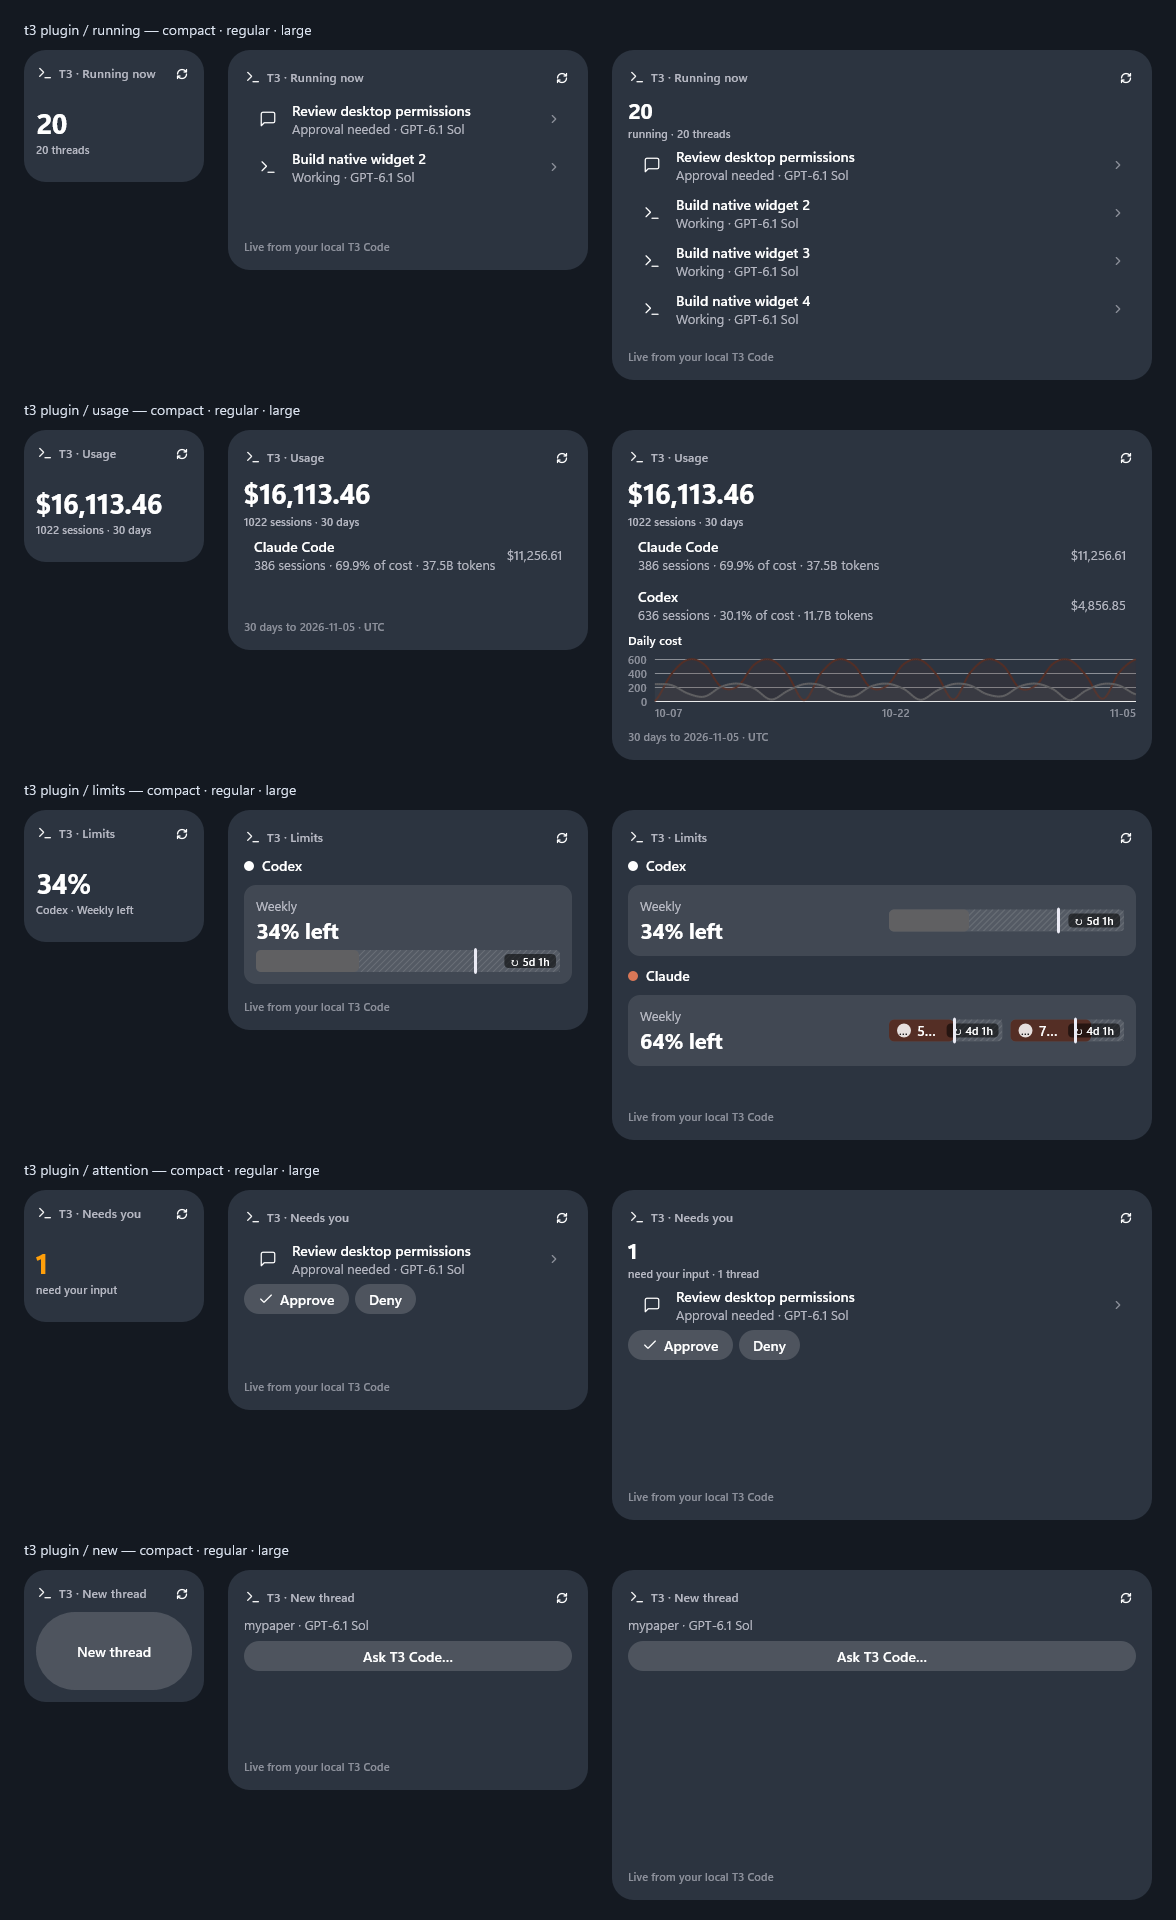
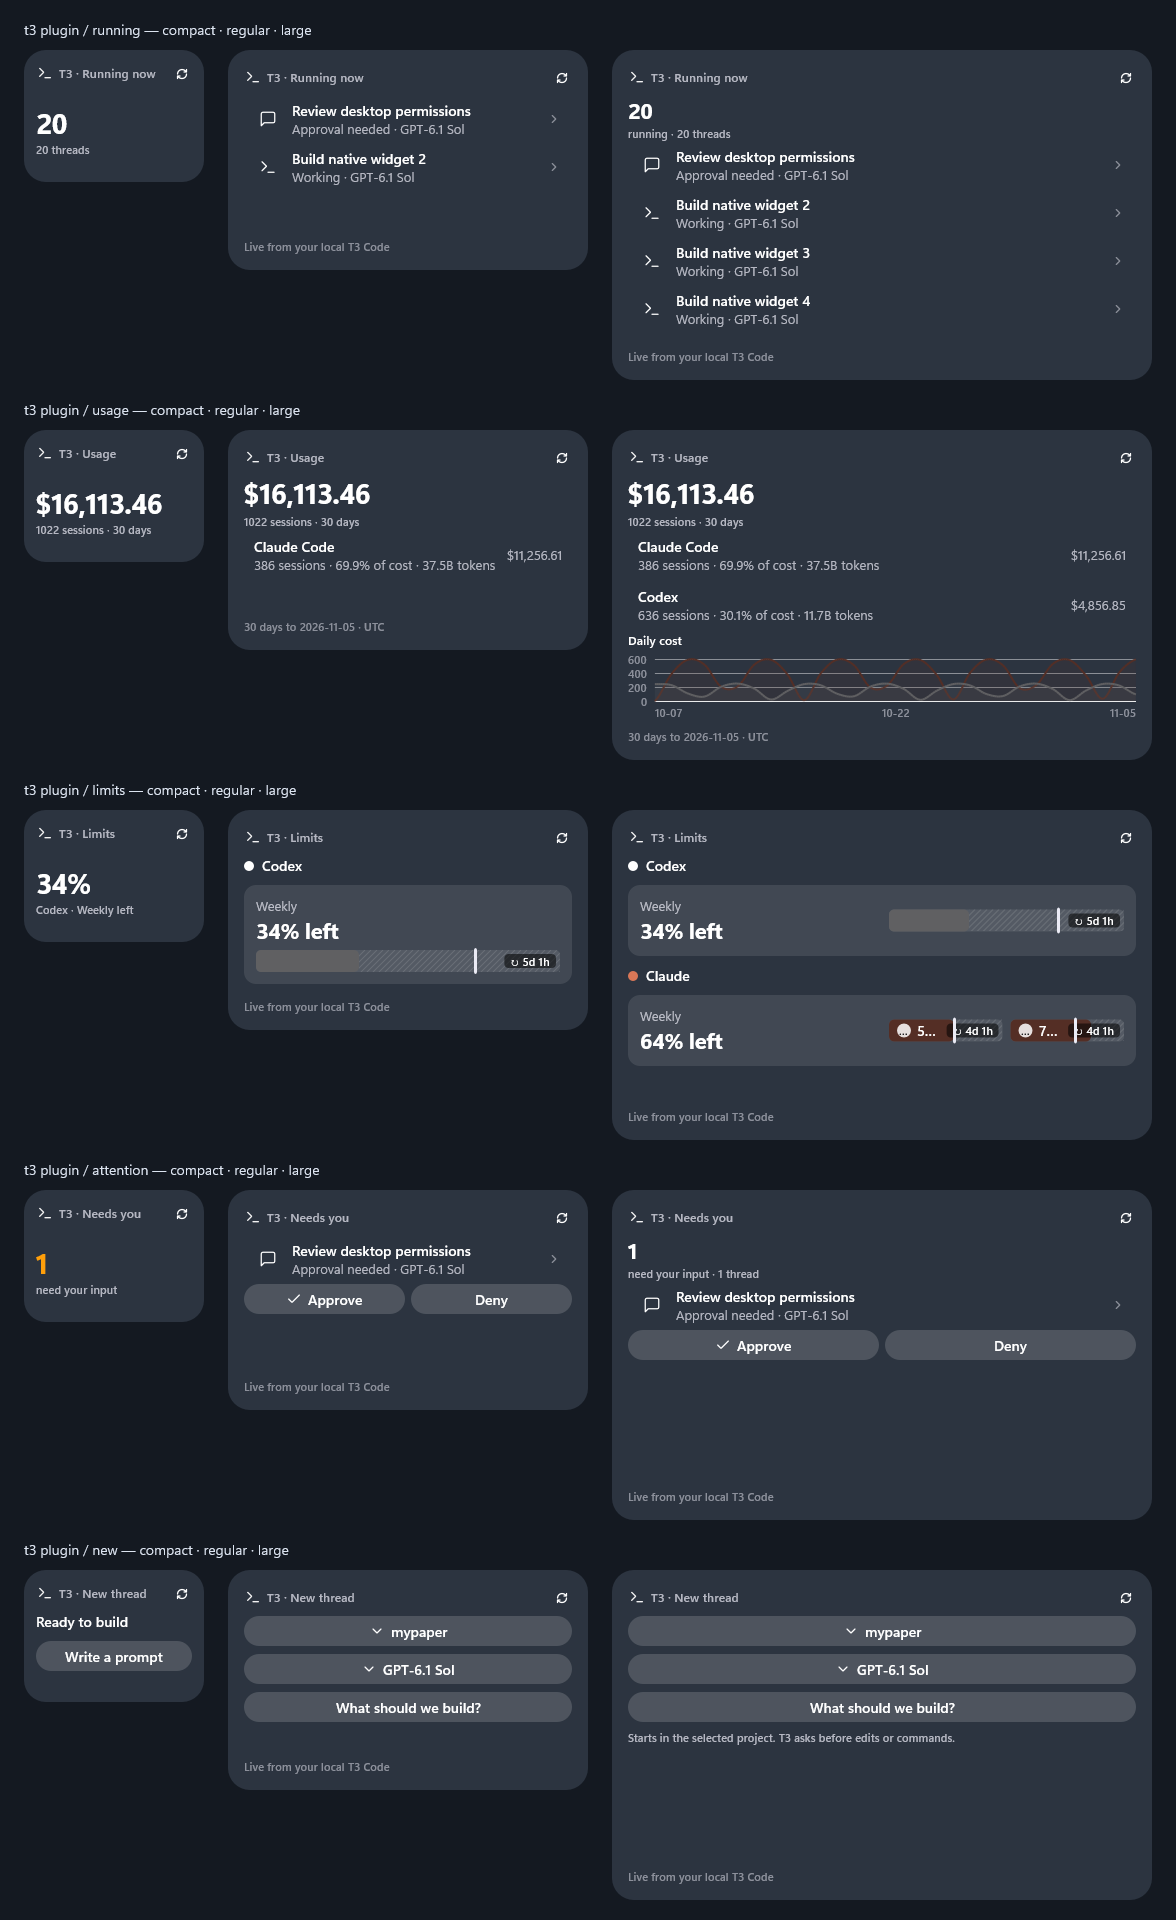
feat(t3): the top-bar t3 module is the T3 plugin's status bar (bars.json "t3" reads as custom:t3--status)

diff --git a/plugins/t3/src/faces.rs b/plugins/t3/src/faces.rs
@@ -11,12 +11,18 @@ pub fn face(face: &str, size: SizeClass, snapshot: &Snapshot, pick: &Pick, now_m
     let footer = footer(face, snapshot);
     let body = match &snapshot.data {
         Some(Data::T3(state)) => match face {
+            // The top-bar module: the bar draws its text.
+            "status" => View::text(
+                format!("{} running · {} need input", state.threads.iter().filter(|t| t.running()).count(), state.threads.iter().filter(|t| t.attention()).count()),
+                Role::Caption,
+            ),
             "limits" => limits(state, size, now_ms),
             "usage" => usage(state, size),
             "new" => composer(state, size, pick),
             "attention" => threads(state, size, true),
             _ => threads(state, size, false),
         },
+        None if face == "status" => View::text("T3", Role::Caption),
         None => match &snapshot.availability {
             Availability::Unavailable(why) => View::Stack {
                 children: vec![

diff --git a/crates/bars/src/config.rs b/crates/bars/src/config.rs
@@ -752,6 +752,7 @@ impl<'de> Deserialize<'de> for ModuleRef {
         let text = String::deserialize(deserializer)?;
         if text == "obs" { return Ok(Self::Custom("obs--status".into())); }
         if text == "tailscale" { return Ok(Self::Custom("tailscale--status".into())); }
+        if text == "t3" { return Ok(Self::Custom("t3--status".into())); }
         if text == "|" {
             return Ok(Self::Break);
         }
